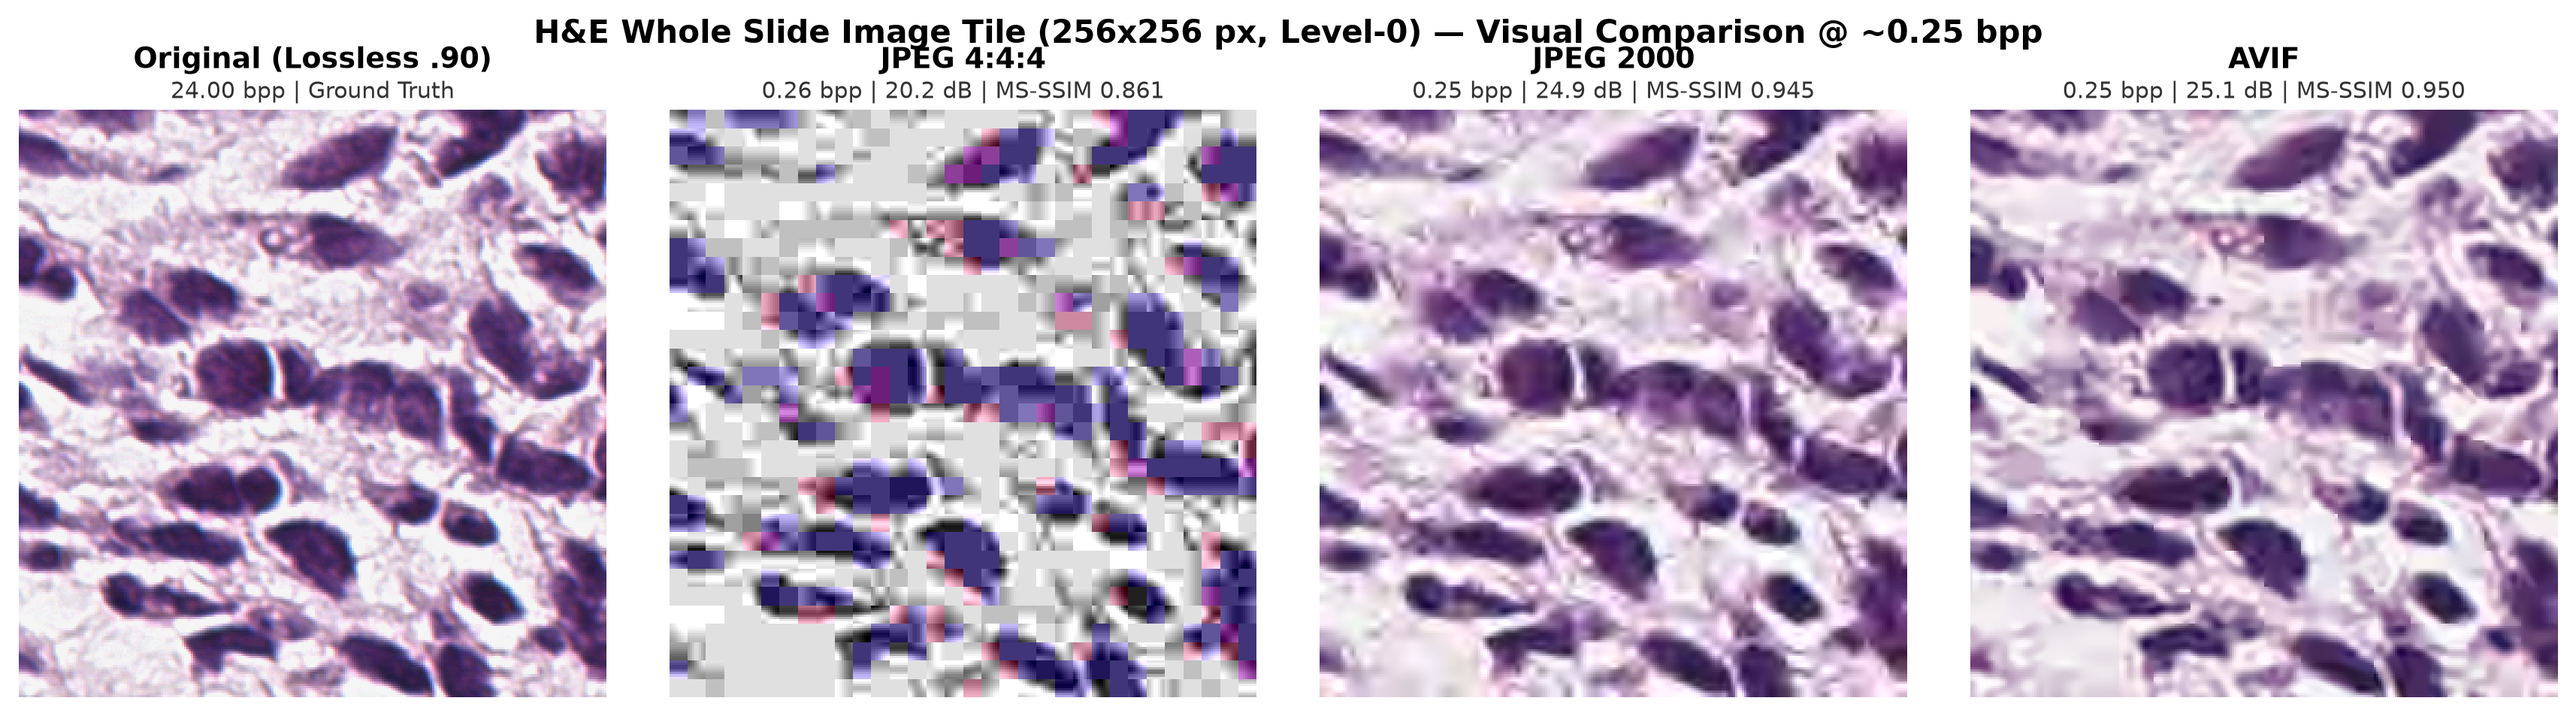
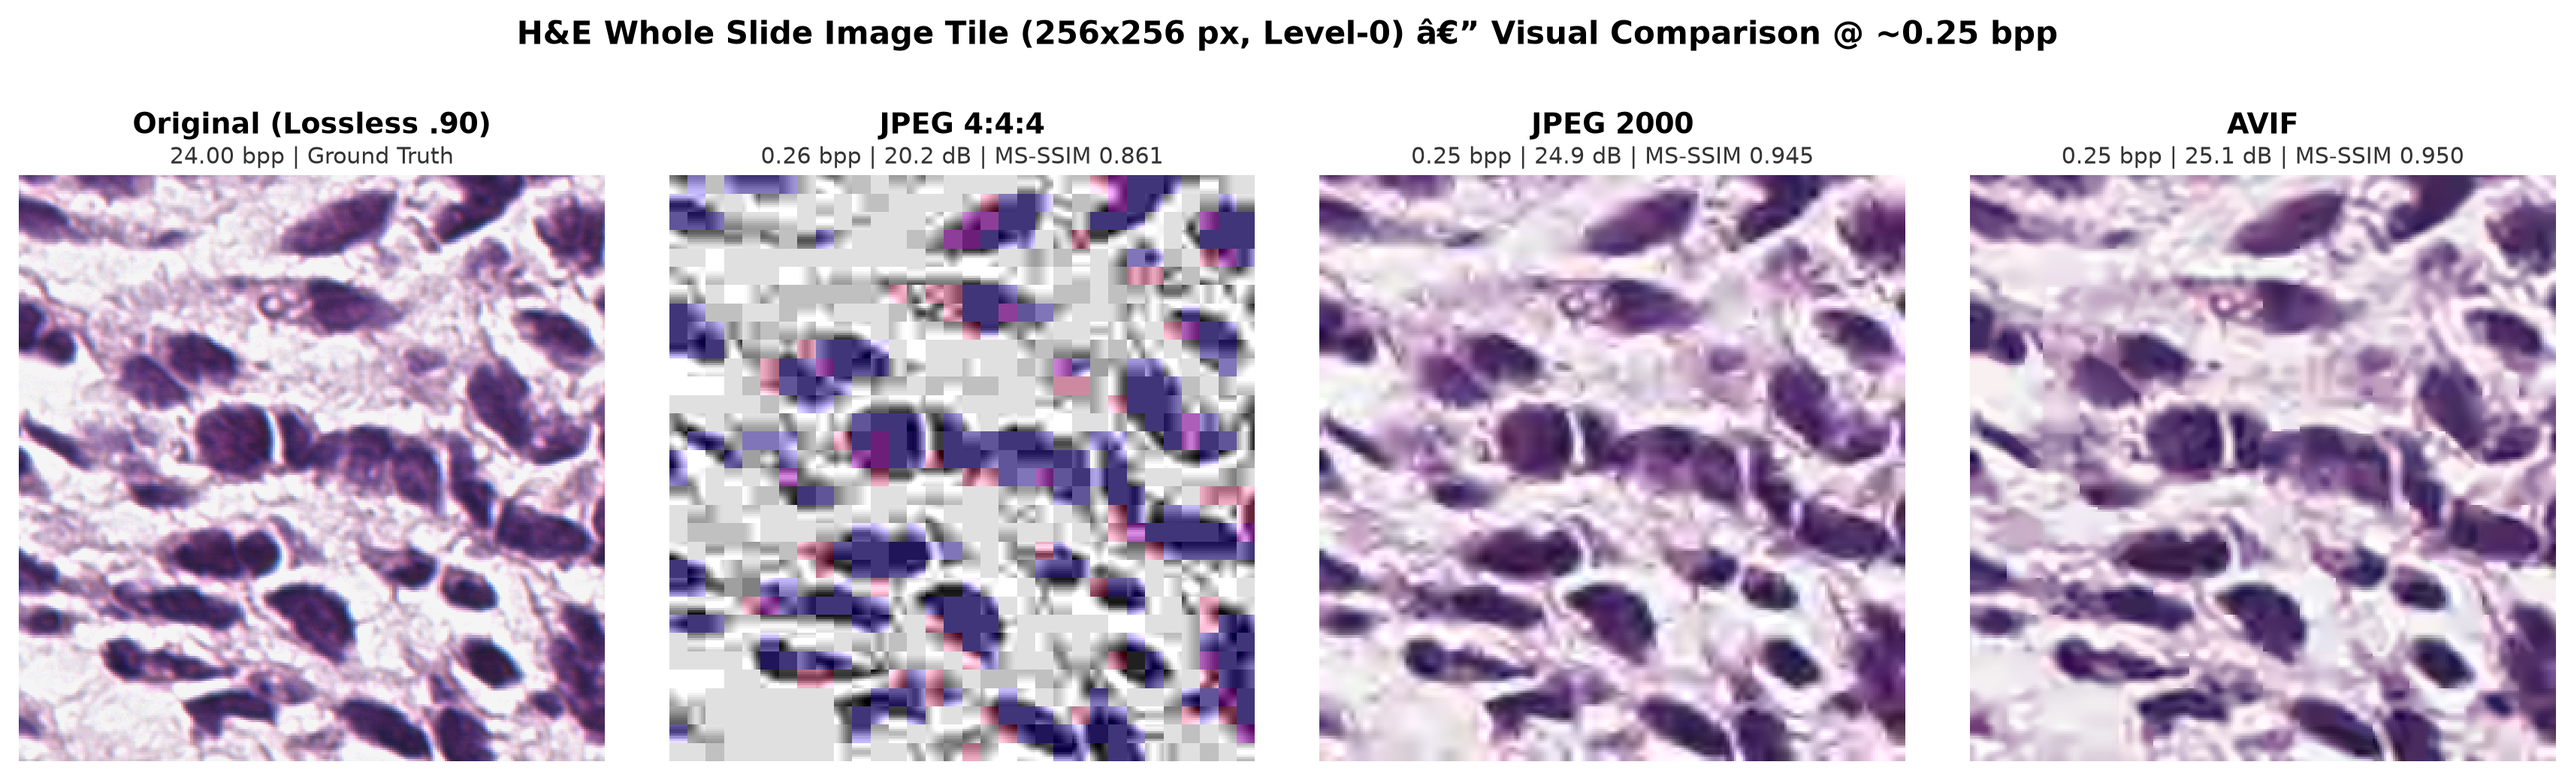
docs: streamline README and fix H&E showcase title spacing

diff --git a/example_usage/make_he_showcase.py b/example_usage/make_he_showcase.py
@@ -1,4 +1,4 @@
-"""
+"""
 make_he_showcase.py
 -------------------
 Creates a visual H&E tissue comparison banner (he_showcase.png) for the README:
@@ -37,7 +37,7 @@ for ax, (title, img, subtitle) in zip(axes, panels):
     ax.text(0.5, 1.02, subtitle, transform=ax.transAxes, ha="center", fontsize=8.5, color="#333333")
     ax.axis("off")
 
-plt.suptitle("H&E Whole Slide Image Tile (256x256 px, Level-0) — Visual Comparison @ ~0.25 bpp", fontsize=12, fontweight="bold", y=0.99)
+plt.suptitle("H&E Whole Slide Image Tile (256x256 px, Level-0) â€” Visual Comparison @ ~0.25 bpp", fontsize=12, fontweight="bold", y=1.08)
 plt.tight_layout()
 
 out_path = Path("he_showcase.png")

diff --git a/README.md b/README.md
@@ -1,147 +1,70 @@
-# Whole Slide Image (WSI) Compression Benchmark
+# Whole Slide Image (WSI) Compression Benchmark
 
-An end-to-end Rate-Distortion (R-D) and Computational Complexity benchmarking suite for evaluating **conventional image codecs** (`JPEG 4:4:4`, `JPEG 4:2:0`, `JPEG 2000`, `WebP`, `JPEG XL`, `AVIF`) and **learned neural compression models** (`CompressAI` `bmshj2018-hyperprior`, `cheng2020-attn`) on histopathology Whole Slide Images (H&E).
+A modular Rate-Distortion (R-D) and Computational Complexity benchmarking suite for evaluating **conventional image codecs** (`JPEG`, `JPEG 2000`, `WebP`, `JPEG XL`, `AVIF`) and **learned neural compression models** (`CompressAI`) on histopathology Whole Slide Images (H&E).
 
 ![H&E Visual Showcase](example_usage/he_showcase.png)
 
 ---
 
-## 1. Motivation & Core Objective
+## 1. Objective & Motivation
 
-In digital pathology, a single Whole Slide Image (WSI) scanned at $40\times$ magnification ($\approx 0.25\,\mu\text{m/px}$) easily exceeds $100{,}000 \times 100{,}000$ pixels, resulting in multi-gigabyte raw files. To manage storage, clinical slide scanners routinely apply lossy **JPEG ($Q=70\text{–}80$, $\approx 0.28\text{ bpp}$)** compression directly during image acquisition.
-
-### The Problem: Generation Loss Bias in Public Repositories
-Most large-scale public pathology repositories (such as **TCGA**) store slides that have *already* undergone lossy scanner compression. Using such pre-compressed images as "ground truth" in compression benchmarks introduces severe **Generation Loss Bias**:
-1. High-frequency chromatin and tissue textures have already been quantized away by the scanner's $8 \times 8$ DCT grid.
-2. Re-compressing pre-smoothed tiles artificially inflates PSNR/MS-SSIM scores (reaching $>44\text{ dB}$) and skews neural entropy models toward unrealistically low bitrates.
-
-### Project Goal
-The goal of this project is to establish a **reproducible, strictly unbiased evaluation pipeline** that:
-1. Evaluates codecs on **verified lossless Level-0 WSI ground truth** (NCI Imaging Data Commons RMS cohort, stored with DICOM Transfer Syntax `1.2.840.10008.1.2.4.90` / JPEG 2000 Lossless and `LossyImageCompression = 00`).
-2. Directly quantifies the distortion and bitrate drift between **lossless ground truth (IDC RMS)** and **scanner pre-compressed data (TCGA-LUAD)**.
-3. Measures real-world **computational complexity** (encoding/decoding throughput in $\text{MPix/s}$, memory footprint, model parameters, and $\text{kMACs/px}$) at matched iso-bitrates to assess clinical viability for real-time WSI viewing.
+* **The Problem:** Most public digital pathology repositories (e.g., TCGA) store slides that are already pre-compressed by clinical scanners (`JPEG Q=70â€“80`, $\approx 0.28\text{ bpp}$). Using pre-compressed data as ground truth introduces **Generation Loss Bias** (missing high-frequency chromatin details and artificially inflated PSNR/MS-SSIM scores).
+* **The Solution:** This pipeline establishes an unbiased benchmark using **verified lossless Level-0 WSI ground truth** from the NCI Imaging Data Commons (DICOM Transfer Syntax `.90` / JPEG 2000 Lossless) and compares it against scanner pre-compressed cohorts.
+* ** Evaluation Scope:** Standardized comparison across bitrate (`bpp`), fidelity (`RGB-PSNR`, `MS-SSIM`), BjÃ¸ntegaard-Delta (`BD-Rate`), and hardware complexity (`MPix/s`, `MParams`, `kMACs/px`).
 
 ---
 
-## 2. Benchmark Pipeline & Architecture
+## 2. Pipeline Architecture
 
 ```mermaid
 flowchart LR
-    subgraph Data["1. Data Acquisition & Tile Extraction"]
-        A["NCI IDC Cloud\n(DICOM .90 Lossless)"] -->|download_one_rms.py| B["Level-0 WSI (.dcm)"]
-        B -->|extract_dicom_tiles.py\nTissue Filter| C["Lossless 256x256\nRGB Tiles (.png)"]
-        D["TCGA-LUAD SVS\n(Scanner Q=70)"] --> E["Pre-Compressed\n256x256 Tiles (.png)"]
-    end
-
-    subgraph Bench["2. Compression Engines"]
-        C & E --> F["benchmark_conventional.py\n(Log/Grid Bisection Search)"]
-        C & E --> G["benchmark_compressai.py\n(Pretrained Neural Models)"]
-        C --> H["complexity_tracker.py\n(Single-Pass Timing & PyTorch Hooks)"]
-    end
-
-    subgraph Eval["3. Unified Scoring & Analysis"]
-        F & G -->|uint8 RGB Arrays| I["metrics.py\n(RGB-PSNR & 5-Scale MS-SSIM)"]
-        I --> J["bdrate_summary.py\n(ITU-T VCEG-M33 BD-Rate)"]
-        I --> K["plot_rd_curves*.py &\nmerge_plots.py"]
-        H --> L["plot_complexity.py\n(Throughput & Pareto Front)"]
-    end
+    A["DICOM .90 Lossless\n& TCGA SVS"] -->|extract_dicom_tiles.py| B["256x256 RGB\nTiles (.png)"]
+    B --> C["benchmark_conventional.py\n(JPEG, J2K, WebP, JXL, AVIF)"]
+    B --> D["benchmark_compressai.py\n(Hyperprior, Cheng2020)"]
+    B --> E["complexity_tracker.py\n(MPix/s, RAM, kMACs/px)"]
+    C & D --> F["metrics.py & bdrate_summary.py\n(PSNR, MS-SSIM, BD-Rate)"]
+    F & E --> G["plot_rd_curves.py &\nplot_complexity.py"]
 ```
 
 ---
 
-## 3. Repository Structure & Code Modules
+## 3. Code Overview (`example_usage/`)
 
-All benchmark scripts are located in the `example_usage/` directory and share a unified metric and tile-loading core so that conventional and neural codecs are scored under identical conditions:
-
-| Script / Module | Purpose & Technical Description |
+| Script | Description |
 | :--- | :--- |
-| **`download_one_rms.py`** | Queries the NCI Imaging Data Commons (`idc-index`) metadata catalog, filters strictly for lossless brightfield H&E slides (`TransferSyntaxUID = 1.2.840.10008.1.2.4.90`, `LossyImageCompression = 00`), and downloads the verified series via `s5cmd`. |
-| **`extract_dicom_tiles.py`** | Opens Level-0 DICOM WSIs via `OpenSlide`, filters out glass background ($\mu > 220$) and scanner borders ($\mu < 30$), and exports native $256 \times 256$ lossless PNG tiles. |
-| **`tiles.py`** | Provides uniform RGB `uint8` tile loaders (`tiles_from_dir`) as well as deterministic synthetic H&E-like tissue generators (`synthetic_tiles`) for quick pipeline tests. |
-| **`metrics.py`** | Dependency-light (`numpy`-only) implementation of `bits_per_pixel`, pooled `psnr_rgb`, and 5-scale `ms_ssim_rgb` ($11 \times 11$ Gaussian window, $\sigma=1.5$ following Wang et al. / `pytorch_msssim` conventions). |
-| **`benchmark_conventional.py`** | Evaluates 6 conventional codecs (`JPEG 4:4:4`, `JPEG 4:2:0`, `JPEG 2000`, `JPEG XL`, `WebP`, `AVIF`) across target bitrates ($0.12\text{ to }1.50\text{ bpp}$). Uses log-scale and integer-grid bisection search (`match_target_bpp`) to match each tile to the exact target bitrate. |
-| **`benchmark_compressai.py`** | Evaluates pretrained neural compression models (`bmshj2018-hyperprior`, `cheng2020-attn`) across quality levels $q \in \{1..6\}$. Reports both likelihood-estimated rate (`bpp_est`) and actual rANS bitstream rate (`bpp_real`). |
-| **`complexity_tracker.py`** | Measures single-pass encoding/decoding latency ($\text{ms}$) and throughput ($\text{MPix/s}$) decoupled from bisection and memory-profiler overhead. Tracks Python peak memory (`tracemalloc`) and counts neural parameters ($\text{MParams}$) and multiply-accumulate operations ($\text{kMACs/px}$) via PyTorch forward hooks at an iso-bitrate of $\approx 0.36\text{ bpp}$. |
-| **`bdrate_summary.py`** | Computes **Bjøntegaard-Delta Rate (BD-Rate in %)** and **BD-PSNR (dB)** relative to `JPEG 4:4:4` via cubic polynomial integration in the log-rate domain (ITU-T VCEG-M33), including log-domain linearization for MS-SSIM ($-10 \log_{10}(1 - \text{MS-SSIM})$). |
-| **`plot_rd_curves.py`** & **`plot_rd_curves_tcga.py`** | Generate publication-grade Rate-Distortion curves (PSNR and MS-SSIM vs. bitrate) with lower-bound saturation deduplication and a reference line for the clinical scanner baseline ($0.28\text{ bpp}$). |
-| **`merge_plots.py`** | Combines the pre-compressed TCGA and lossless RMS R-D plots vertically into `rd_curves_combined_comparison.png`. |
-| **`plot_complexity.py`** | Visualizes encoding vs. decoding throughput (log-scale bar chart) alongside the quality vs. decoding speed Pareto front (`complexity_comparison.png`). |
-| **`make_he_showcase.py`** | Generates the visual H&E comparison banner (`he_showcase.png`) at $0.25\text{ bpp}$. |
+| **`download_one_rms.py`** | Queries NCI IDC (`idc-index`) and downloads verified lossless H&E DICOM slides (`.90`). |
+| **`extract_dicom_tiles.py`** | Extracts non-overlapping $256 \times 256$ Level-0 tissue tiles via `OpenSlide` (filtering out glass background). |
+| **`tiles.py`** | Loads PNG/TIFF tiles as `uint8` RGB arrays or generates synthetic H&E test tiles. |
+| **`metrics.py`** | Computes `bits_per_pixel`, pooled `psnr_rgb`, and 5-scale `ms_ssim_rgb` (`numpy`-only). |
+| **`benchmark_conventional.py`** | Bisects codec parameters to match target bitrates ($0.12\text{â€“}1.50\text{ bpp}$) across all 6 conventional codecs. |
+| **`benchmark_compressai.py`** | Evaluates pretrained CompressAI models (`bmshj2018-hyperprior`, `cheng2020-attn`) using real rANS entropy coding. |
+| **`complexity_tracker.py`** | Profiles single-pass encoding/decoding throughput ($\text{MPix/s}$), peak RAM, model parameters, and $\text{kMACs/px}$. |
+| **`bdrate_summary.py`** | Calculates ITU-T VCEG-M33 **BD-Rate (%)** and **BD-PSNR (dB)** relative to `JPEG 4:4:4`. |
+| **`plot_rd_curves*.py`** | Plots R-D curves (`plot_rd_curves.py`, `plot_rd_curves_tcga.py`, `merge_plots.py`). |
+| **`plot_complexity.py`** | Generates log-scale throughput bar charts and Pareto front scatter plots. |
 
 ---
 
-## 4. Key Experimental Results
+## 4. Quickstart
 
-### 4.1 Rate-Distortion Performance: Pre-Compressed (TCGA) vs. Lossless Ground Truth (IDC RMS)
-
-![Combined Rate-Distortion Curves](example_usage/rd_curves_combined_comparison.png)
-
-#### Bjøntegaard-Delta Summary on Lossless Ground Truth (IDC RMS Cohort, Anchor: `JPEG 4:4:4`)
-
-| Codec / Model | Category | BD-Rate PSNR [%] | BD-PSNR [dB] | BD-Rate MS-SSIM [%] | Evaluated Bitrate Range [bpp] |
-| :--- | :--- | :---: | :---: | :---: | :---: |
-| **`cheng2020-attn`** | Neural (CompressAI) | **-60.31 %** | **+5.28 dB** | **-57.33 %** | 0.182 – 0.900 |
-| **`bmshj2018-hyperprior`** | Neural (CompressAI) | **-55.72 %** | **+4.74 dB** | **-54.02 %** | 0.196 – 0.956 |
-| **`AVIF` (libavif)** | Conventional | **-44.41 %** | **+3.06 dB** | **-42.90 %** | 0.154 – 1.496 |
-| **`JPEG 2000` (OpenJPEG)** | Conventional | **-41.25 %** | **+2.65 dB** | **-36.06 %** | 0.119 – 1.499 |
-| **`JPEG XL` (libjxl)** | Conventional | **-33.01 %** | **+2.28 dB** | **-28.48 %** | 0.182 – 1.505 |
-| **`WebP` (libwebp)** | Conventional | **-18.61 %** | **+1.24 dB** | **-21.33 %** | 0.287 – 1.514 |
-| **`JPEG 4:2:0`** | Conventional | **-7.41 %** | **+0.33 dB** | **-10.78 %** | 0.145 – 1.497 |
-| **`JPEG 4:4:4` (Anchor)** | Conventional | 0.00 % | 0.00 dB | 0.00 % | 0.194 – 1.499 |
-
----
-
-### 4.2 Computational Complexity & Pareto Front (Iso-Bitrate $\approx 0.36\text{ bpp}$)
-
-![Computational Complexity Comparison](example_usage/complexity_comparison.png)
-
-| Codec / Model | Achieved Rate [bpp] | RGB-PSNR [dB] | Enc Time [ms] | Dec Time [ms] | Enc Speed [MPix/s] | Dec Speed [MPix/s] | Params [M] | Complexity [kMAC/px] |
-| :--- | :---: | :---: | :---: | :---: | :---: | :---: | :---: | :---: |
-| **`JPEG 4:2:0`** | 0.355 | 25.90 | 0.3 | 0.3 | 186.22 | 186.18 | – | – |
-| **`JPEG 4:4:4`** | 0.358 | 25.16 | 0.5 | 0.4 | 136.82 | 172.52 | – | – |
-| **`AVIF` (speed=6)** | 0.360 | 28.93 | 51.0 | 1.0 | 1.28 | **64.28** | – | – |
-| **`WebP` (method=4)** | 0.355 | 27.54 | 10.3 | 1.6 | 6.34 | 42.34 | – | – |
-| **`JPEG 2000`** | 0.352 | 28.26 | 17.0 | 2.0 | 3.85 | 32.51 | – | – |
-| **`JPEG XL` (effort=7)** | 0.359 | 27.84 | 36.3 | 4.7 | 1.81 | 13.96 | – | – |
-| **`bmshj2018-hyperprior`** | 0.368 | 30.24 | 56.3 | 64.8 | 1.16 | 1.01 | 5.08 | 188.2 |
-| **`cheng2020-attn`** | 0.348 | **30.53** | 491.1 | 1155.2 | 0.13 | 0.06 | 13.18 | 460.5 |
-
-**Key Takeaways:**
-* **Neural vs. Conventional:** Learned compression (`cheng2020-attn`) achieves the highest reconstruction fidelity ($>60\%$ bitrate savings over JPEG), but its autoregressive context model induces a severe sequential CPU decoding bottleneck ($0.06\text{ MPix/s}$). Non-autoregressive `bmshj2018-hyperprior` decodes $>16\times$ faster while retaining $55.7\%$ bitrate savings.
-* **Best Conventional Trade-Off:** **`AVIF`** occupies the sweet spot on the Pareto front, delivering $+3.77\text{ dB}$ higher PSNR than `JPEG 4:4:4` at $0.36\text{ bpp}$ while maintaining real-time decoding throughput (**$64.28\text{ MPix/s}$**, $\approx 1.0\text{ ms}$ per $256 \times 256$ tile).
-
----
-
-## 5. Reproducibility & Quickstart
-
-### 1. Install Dependencies
 ```bash
+# 1. Install dependencies
 pip install numpy pandas matplotlib Pillow imagecodecs torch torchvision compressai openslide-python idc-index
-```
 
-### 2. Run the Full Benchmark Pipeline
-```bash
+# 2. Run benchmarks on extracted 256x256 tiles
 cd example_usage
-
-# 1. Download a verified lossless DICOM WSI & extract 256x256 tissue tiles
-python download_one_rms.py
-python extract_dicom_tiles.py
-
-# 2. Run conventional and neural R-D benchmarks
 python benchmark_conventional.py --tiles-dir tiles_rms_lossless_256 --out results_rms_conv.csv
 python benchmark_compressai.py --tiles-dir tiles_rms_lossless_256 --out results_rms_ai.csv
 
-# 3. Generate R-D plots, BD-Rate summaries, and Complexity benchmarks
+# 3. Generate plots, complexity metrics, and BD-Rate summary
 python plot_rd_curves.py
-python bdrate_summary.py
 python complexity_tracker.py --tiles-dir tiles_rms_lossless_256 --limit 3
 python plot_complexity.py
+python bdrate_summary.py
 ```
 
 ---
 
-## 6. Contact & Bug Reports
+## 5. Contact & Bug Reports
 
-This benchmark is under active development. If you encounter any bugs, edge cases, reproducibility issues, or have suggestions for additional codecs or evaluation metrics, please feel free to:
-* **Open an Issue** directly in this GitHub repository, or
-* **Send me an email:** [leonard.saghyan@rwth-aachen.de](mailto:leonard.saghyan@rwth-aachen.de) *(or reach out via GitHub)* — I will gladly look into it and get back to you!
+If you encounter any bugs, reproducibility issues, or have questions regarding the benchmark setup, please **open an issue** in this repository or **send me an email** at [leonard.saghyan@rwth-aachen.de](mailto:leonard.saghyan@rwth-aachen.de) â€” I will gladly look into it!
